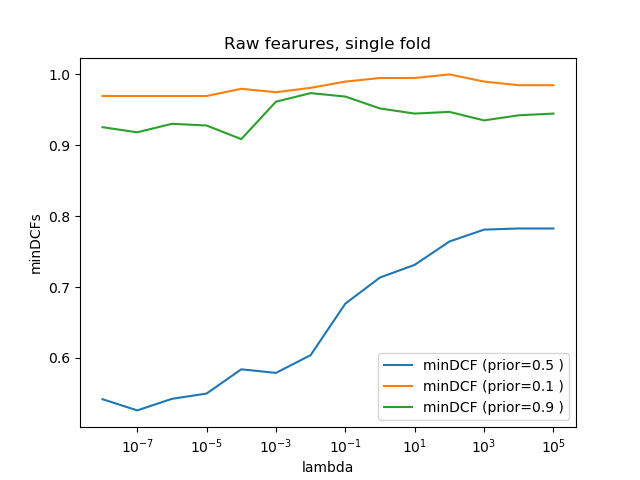
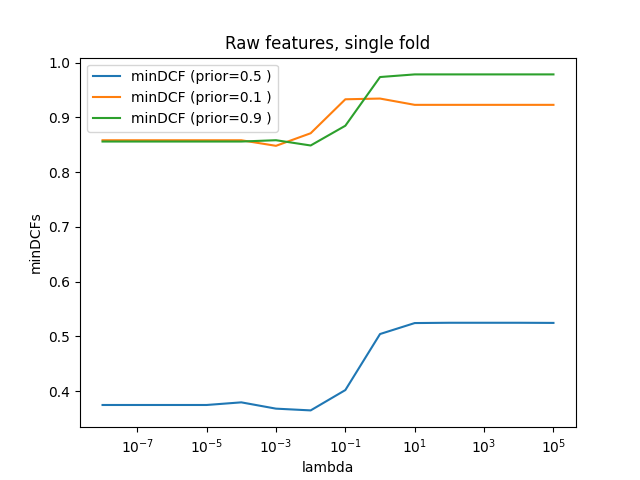
aggiunta normalization

diff --git a/main.py b/main.py
@@ -1,3 +1,4 @@
+from scipy.stats.morestats import Mean
 import stats
 import dimensionality_reduction_techniques as redTec
 import numpy
@@ -10,6 +11,12 @@ import matplotlib.pyplot as plt
 import SVMClassifier
 
 
+import sklearn.preprocessing
+
+
+
+def mrow(v):
+    return v.reshape((1, v.size))
 
 def mcol(v):
     return v.reshape((v.size, 1))
@@ -32,6 +39,9 @@ def load(fname):
 
     return numpy.hstack(DList), numpy.array(labelsList, dtype=numpy.int32)
 
+
+def normalization(D):
+    return (D-mcol(D.mean(1)))/mcol(numpy.std(D, axis=1))
 
 
 def gaussianization(D):
@@ -174,8 +184,8 @@ def print_graphs_LR_lambdas(DTR, LTR,  k):
 
     plt.figure()
     print("+++++++++++++++++++++++++++++++++++")
-    print("Raw fearures, single fold")
-    plt.title("Raw fearures, single fold")
+    print("Raw features, single fold")
+    plt.title("Raw features, single fold")
     plt.xscale('log')
     plt.xlabel("lambda")
     plt.ylabel("minDCFs")
@@ -184,10 +194,11 @@ def print_graphs_LR_lambdas(DTR, LTR,  k):
     oneGraphSingleFold(DTR, prior=0.9, cost_fn=1, cost_fp=1, pi_T=0.5)
     plt.savefig('Graph/LR/linear/singleFoldRAW.png' )
 
+    '''
     plt.figure()
     print("+++++++++++++++++++++++++++++++++++")
-    print("Gaussianized fearures, single fold")
-    plt.title("Gaussianized fearures, single fold")
+    print("Gaussianized features, single fold")
+    plt.title("Gaussianized features, single fold")
     plt.xscale('log')
     plt.xlabel("lambda")
     plt.ylabel("minDCFs")
@@ -199,8 +210,8 @@ def print_graphs_LR_lambdas(DTR, LTR,  k):
 
     plt.figure()
     print("+++++++++++++++++++++++++++++++++++")
-    print("Raw fearures, 5 fold")
-    plt.title("Raw fearures, 5 fold")
+    print("Raw features, 5 fold")
+    plt.title("Raw features, 5 fold")
     plt.xscale('log')
     plt.xlabel("lambda")
     plt.ylabel("minDCFs")
@@ -211,8 +222,8 @@ def print_graphs_LR_lambdas(DTR, LTR,  k):
 
     plt.figure()
     print("+++++++++++++++++++++++++++++++++++")
-    print("Gaussianized fearures, 5 fold")
-    plt.title("Gaussianized fearures, 5 fold")
+    print("Gaussianized features, 5 fold")
+    plt.title("Gaussianized features, 5 fold")
     plt.xscale('log')
     plt.xlabel("lambda")
     plt.ylabel("minDCFs")
@@ -221,6 +232,8 @@ def print_graphs_LR_lambdas(DTR, LTR,  k):
     oneGraphKFold(gaussianizedFeatures, prior=0.1, cost_fn=1, cost_fp=1, pi_T=0.5)
     oneGraphKFold(gaussianizedFeatures, prior=0.9, cost_fn=1, cost_fp=1, pi_T=0.5)
     plt.savefig('Graph/LR/linear/5FoldGauss.png' )
+    '''
+
     #plt.show()
 
     
@@ -259,8 +272,8 @@ def print_graphs_quadratic_LR_lambdas(DTR, LTR,  k):
 
     plt.figure()
     print("+++++++++++++++++++++++++++++++++++")
-    print("Raw fearures, single fold")
-    plt.title("Raw fearures, single fold")
+    print("Raw features, single fold")
+    plt.title("Raw features, single fold")
     plt.xscale('log')
     plt.xlabel("lambda")
     plt.ylabel("minDCFs")
@@ -269,10 +282,11 @@ def print_graphs_quadratic_LR_lambdas(DTR, LTR,  k):
     oneGraphSingleFold(DTR, prior=0.9, cost_fn=1, cost_fp=1, pi_T=0.5)
     plt.savefig('Graph/LR/quadratic/singleFoldRAW.png' )
 
+    '''
     plt.figure()
     print("+++++++++++++++++++++++++++++++++++")
-    print("Gaussianized fearures, single fold")
-    plt.title("Gaussianized fearures, single fold")
+    print("Gaussianized features, single fold")
+    plt.title("Gaussianized features, single fold")
     plt.xscale('log')
     plt.xlabel("lambda")
     plt.ylabel("minDCFs")
@@ -284,8 +298,8 @@ def print_graphs_quadratic_LR_lambdas(DTR, LTR,  k):
 
     plt.figure()
     print("+++++++++++++++++++++++++++++++++++")
-    print("Raw fearures, 5 fold")
-    plt.title("Raw fearures, 5 fold")
+    print("Raw features, 5 fold")
+    plt.title("Raw features, 5 fold")
     plt.xscale('log')
     plt.xlabel("lambda")
     plt.ylabel("minDCFs")
@@ -296,8 +310,8 @@ def print_graphs_quadratic_LR_lambdas(DTR, LTR,  k):
 
     plt.figure()
     print("+++++++++++++++++++++++++++++++++++")
-    print("Gaussianized fearures, 5 fold")
-    plt.title("Gaussianized fearures, 5 fold")
+    print("Gaussianized features, 5 fold")
+    plt.title("Gaussianized features, 5 fold")
     plt.xscale('log')
     plt.xlabel("lambda")
     plt.ylabel("minDCFs")
@@ -306,6 +320,8 @@ def print_graphs_quadratic_LR_lambdas(DTR, LTR,  k):
     oneGraphKFold(gaussianizedFeatures, prior=0.1, cost_fn=1, cost_fp=1, pi_T=0.5)
     oneGraphKFold(gaussianizedFeatures, prior=0.9, cost_fn=1, cost_fp=1, pi_T=0.5)
     plt.savefig('Graph/LR/quadratic/5FoldGauss.png' )
+    '''
+    
     #plt.show()
 
     
@@ -343,7 +359,7 @@ def print_graphs_SVM_Cs(DTR, LTR, k ):
 
     plt.figure()
     print("1 grafico")
-    plt.title("Raw fearures, single fold")
+    plt.title("Raw features, single fold")
     plt.xscale('log')
     plt.xlabel("C")
     plt.ylabel("minDCFs")
@@ -354,7 +370,7 @@ def print_graphs_SVM_Cs(DTR, LTR, k ):
     
     print("2 grafico")
     plt.figure()
-    plt.title("Gaussianized fearures, single fold")
+    plt.title("Gaussianized features, single fold")
     plt.xscale('log')
     plt.xlabel("C")
     plt.ylabel("minDCFs")
@@ -366,7 +382,7 @@ def print_graphs_SVM_Cs(DTR, LTR, k ):
    
     print("3 grafico")
     plt.figure()
-    plt.title("Raw fearures, 5 fold")
+    plt.title("Raw features, 5 fold")
     plt.xscale('log')
     plt.xlabel("C")
     plt.ylabel("minDCFs")
@@ -377,7 +393,7 @@ def print_graphs_SVM_Cs(DTR, LTR, k ):
 
     print("4 grafico")
     plt.figure()
-    plt.title("Gaussianized fearures, 5 fold")
+    plt.title("Gaussianized features, 5 fold")
     plt.xscale('log')
     plt.xlabel("C")
     plt.ylabel("minDCFs")
@@ -422,7 +438,7 @@ def print_graphs_Polinomial_SVM_Cs(DTR, LTR, k ):
 
     plt.figure()
     print("1 grafico")
-    plt.title("Raw fearures, single fold")
+    plt.title("Raw features, single fold")
     plt.xscale('log')
     plt.xlabel("C")
     plt.ylabel("minDCFs")
@@ -433,7 +449,7 @@ def print_graphs_Polinomial_SVM_Cs(DTR, LTR, k ):
     
     print("2 grafico")
     plt.figure()
-    plt.title("Gaussianized fearures, single fold")
+    plt.title("Gaussianized features, single fold")
     plt.xscale('log')
     plt.xlabel("C")
     plt.ylabel("minDCFs")
@@ -445,7 +461,7 @@ def print_graphs_Polinomial_SVM_Cs(DTR, LTR, k ):
    
     print("3 grafico")
     plt.figure()
-    plt.title("Raw fearures, 5 fold")
+    plt.title("Raw features, 5 fold")
     plt.xscale('log')
     plt.xlabel("C")
     plt.ylabel("minDCFs")
@@ -456,7 +472,7 @@ def print_graphs_Polinomial_SVM_Cs(DTR, LTR, k ):
 
     print("4 grafico")
     plt.figure()
-    plt.title("Gaussianized fearures, 5 fold")
+    plt.title("Gaussianized features, 5 fold")
     plt.xscale('log')
     plt.xlabel("C")
     plt.ylabel("minDCFs")
@@ -492,7 +508,7 @@ def print_graphs_RBF_SVM_Cs(DTR, LTR, k):
 
     print("1 grafico")
     plt.figure()
-    plt.title("Raw fearures, 5 fold")
+    plt.title("Raw features, 5 fold")
     plt.xscale('log')
     plt.xlabel("C")
     plt.ylabel("minDCFs")
@@ -504,7 +520,7 @@ def print_graphs_RBF_SVM_Cs(DTR, LTR, k):
 
     print("2 grafico")
     plt.figure()
-    plt.title("Gaussianized fearures, 5 fold")
+    plt.title("Gaussianized features, 5 fold")
     plt.xscale('log')
     plt.xlabel("C")
     plt.ylabel("minDCFs")
@@ -559,6 +575,7 @@ if __name__ == '__main__':
     print("------> pi = 0.9")
     print_table_MVG_classifiers_minDCF(DTR, prior=0.9, cost_fn=1, cost_fp=1, k=k)
     print()
+
     print("------> pi = 0.1")
     print_table_MVG_classifiers_minDCF(DTR, prior=0.1, cost_fn=1, cost_fp=1, k=k)
     print()
@@ -566,12 +583,15 @@ if __name__ == '__main__':
     
     '''
 
+    DTR = normalization(DTR)
+    #DTR = sklearn.preprocessing.normalize(DTR, axis=1)
+
     ### -- LOGISTIC REGRESSION
-    '''
+    
     print("********************* LR GRAPHS MIN DCF ************************************")
     print_graphs_LR_lambdas(DTR,LTR, k=k)
     print("********************************************************************")
-    '''
+    
 
     '''
     print("********************* LR TABLE ************************************")
@@ -587,10 +607,13 @@ if __name__ == '__main__':
     print("********************************************************************")
     '''
 
+    
     print("********************* quadratic LR GRAPHS ************************************")
     print_graphs_quadratic_LR_lambdas(DTR, LTR,  k)
     print("********************************************************************")
     
+
+
     '''
 
     print("********************* SVM GRAPHS ************************************")
@@ -610,8 +633,15 @@ if __name__ == '__main__':
     print("********************************************************************")
     '''
 
- 
     
+
+    #minDCFs_raw = model_evaluation.singleFold_minDCF( normalizedata, LTR, logisticRegression.Quadratic_LR_logLikelihoodRatios, 0.5 , 1, 1, [10**-7, 0.5])    
+    #minDCFs_gauss = model_evaluation.singleFold_minDCF( gaussianization(DTR), LTR, logisticRegression.Quadratic_LR_logLikelihoodRatios, 0.5 , 1, 1, [10**-7, 0.5])    
+
+    #print("raw: ", minDCFs_raw)
+    #print("gauss: ", minDCFs_gauss)
+    
+
     #stats.plot_scatter(principal_components,LTR)
     #linear_discriminants = redTec.LDA(DTR,LTR, 1)
     #redTec.plotLDA(linear_discriminants, LTR, "Applied LDA")

diff --git a/model_evaluation.py b/model_evaluation.py
@@ -140,7 +140,7 @@ def k_cross_minDCF(D, L, k, llr_calculator, prior, cost_fn, cost_fp, otherParams
 
 def singleFold_minDCF(D, L, llr_calculator, prior, cost_fn, cost_fp, otherParams=None):
     (DTR, LTR), (DTE,LTE)= split_db_2tol(D,L)
-    llr =llr_calculator (DTR,LTR,DTE, otherParams)
+    llr = llr_calculator (DTR,LTR,DTE, otherParams)
     min_DCF,_,_ =compute_minimum_detection_cost(llr, LTE, prior , cost_fn, cost_fp)
     return min_DCF #minDCF
 
